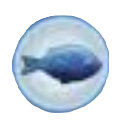
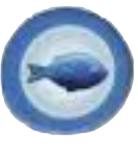
fixed selection and start screen

diff --git a/src/FramePanel.java b/src/FramePanel.java
@@ -4,6 +4,7 @@ import java.awt.event.KeyEvent;
 import java.awt.event.MouseEvent;
 import java.awt.event.MouseListener;
 import java.awt.event.MouseMotionListener;
+import java.awt.geom.RoundRectangle2D;
 import java.awt.image.BufferedImage;
 import java.io.File;
 import java.io.IOException;
@@ -13,7 +14,7 @@ import java.util.*;
 import javax.imageio.ImageIO;
 import javax.swing.*;
 public class FramePanel extends JPanel implements MouseListener, MouseMotionListener {
-    private BufferedImage cover, infoButton, bg, exitPic, leftArrow, rightArrow, birdBack;
+    private BufferedImage cover, infoButton, bg, exitPic, leftArrow, rightArrow, birdBack, wheatToken, invertebrateToken, fishToken, fruitToken, rodentToken;
     private final ProgramState state;
     private Rectangle startButtonRect = new Rectangle(700, 700, 200, 100);
     private boolean hover = false;
@@ -33,6 +34,7 @@ public class FramePanel extends JPanel implements MouseListener, MouseMotionList
 
     //Startselection variables
     boolean[] startSelections; //1-5 for birds, 6-10 for foods, 11-12 for bonus
+    private int numberOfItemsSelected = 0;
     Bird[] startOptions;
     Bonus[] bonusOptions;
 
@@ -42,6 +44,7 @@ public class FramePanel extends JPanel implements MouseListener, MouseMotionList
     public FramePanel(ProgramState state){
         this.state = state;
         addMouseListener(this);
+        addMouseMotionListener(this);
         
 
         for (int i=0;i<4;i++){
@@ -54,6 +57,11 @@ public class FramePanel extends JPanel implements MouseListener, MouseMotionList
             infoButton = ImageIO.read(FramePanel.class.getResource("/assets/info picture.png"));
             bg = ImageIO.read(FramePanel.class.getResource("/assets/table_bg.png"));
             ingameBg = ImageIO.read(FramePanel.class.getResource("/assets/ingamebg.png"));
+            wheatToken = ImageIO.read(FramePanel.class.getResource("/assets/Wheat_Token.png"));
+            invertebrateToken = ImageIO.read(FramePanel.class.getResource("/assets/Invertebrate_Token.png"));
+            fishToken = ImageIO.read(FramePanel.class.getResource("/assets/Fish_Token.png"));
+            fruitToken = ImageIO.read(FramePanel.class.getResource("/assets/Fruit_Token.png"));
+            rodentToken = ImageIO.read(FramePanel.class.getResource("/assets/Rodent_Token.png"));
             exitPic = ImageIO.read(FramePanel.class.getResource("/assets/cover_image.png")); //placeholder cuz im lazy
             leftArrow = ImageIO.read(FramePanel.class.getResource("/assets/cover_image.png")); //placeholder cuz im lazy
             rightArrow = ImageIO.read(FramePanel.class.getResource("/assets/cover_image.png")); //placeholder cuz im lazy
@@ -85,7 +93,11 @@ public class FramePanel extends JPanel implements MouseListener, MouseMotionList
     
     @Override
     public void mouseClicked(MouseEvent e) {
-        int x = e.getX();
+      
+
+    }
+    public void mousePressed(MouseEvent e) {
+          int x = e.getX();
         int y = e.getY();
         out.println("("+x+","+y+")");
         // Only respond to clicks when we are on the start screen
@@ -108,31 +120,79 @@ public class FramePanel extends JPanel implements MouseListener, MouseMotionList
             }
         }else if ("Select Screen".equals(state.CURRENTEVENT.getLast())){
             //food click
-            if (x>=1200 && x<=1300 && y>=130 && y<=220) startSelections[5] = !startSelections[5];
-            else if (x>=1200 && x<=1300 && y>=340 && y<=430) startSelections[6] = !startSelections[6];
-            else if (x>=1320 && x<=1410 && y>=230 && y<=320) startSelections[7] = !startSelections[7];
-            else if (x>=1440 && x<=1530 && y>=130 && y<=220) startSelections[8] = !startSelections[8];
-            else if (x>=1440 && x<=1530 && y>=340 && y<=430) startSelections[9] = !startSelections[9];
+             
+            if (x>=1200 && x<=1300 && y>=130 && y<=220){
+                if(numberOfItemsSelected<5&&!startSelections[5]){
+                    startSelections[5] = !startSelections[5];
+                    numberOfItemsSelected++;
+                }else if(startSelections[5]){
+                    startSelections[5] = !startSelections[5];
+                    numberOfItemsSelected--;
+            }
+        }
+            else if (x>=1200 && x<=1300 && y>=340 && y<=430){
+                if(numberOfItemsSelected<5&&!startSelections[6]){
+                    startSelections[6] = !startSelections[6];
+                    numberOfItemsSelected++;
+                }else if(startSelections[6]){
+                    startSelections[6] = !startSelections[6];
+                    numberOfItemsSelected--;
+                }
+            }
+            else if (x>=1320 && x<=1410 && y>=230 && y<=320){
+                if(numberOfItemsSelected<5&&!startSelections[7]){
+                    startSelections[7] = !startSelections[7];
+                    numberOfItemsSelected++;
+                }else if(startSelections[7]){
+                    startSelections[7] = !startSelections[7];
+                    numberOfItemsSelected--;
+                }
+            }
+            else if (x>=1440 && x<=1530 && y>=130 && y<=220){
+                if(numberOfItemsSelected<5&&!startSelections[8]){
+                    startSelections[8] = !startSelections[8];
+                    numberOfItemsSelected++;
+                }else if(startSelections[8]){
+                    startSelections[8] = !startSelections[8];
+                    numberOfItemsSelected--;
+                }
+            }
+            else if (x>=1440 && x<=1530 && y>=340 && y<=430){
+                if(numberOfItemsSelected<5&&!startSelections[9]){
+                    startSelections[9] = !startSelections[9];
+                    numberOfItemsSelected++;
+                }else if(startSelections[9]){
+                    startSelections[9] = !startSelections[9];
+                    numberOfItemsSelected--;
+                }
+            }
+            
             
             //debug click
-            else if (x>=140 && y>=700 && x<=290 && y<=780){
-                for (int i=0;i<5;i++) startSelections[i] = true;
-                startSelections[10] = true;
-            }
+                else if (x>=140 && y>=700 && x<=290 && y<=780){
+                    for (int i=0;i<5;i++) startSelections[i] = true;
+                    startSelections[10] = true;
+                }
             //birb click
             else if (y>=120 && y<=420){
                 for (int i=0;i<5;i++){
                     if (x>=30+i*220 && x<=230+i*220){
-                        startSelections[i] = !startSelections[i];
-                        out.println("Swapped");
-                        
-                    }
+                       if(numberOfItemsSelected<5&&!startSelections[i]){
+                    startSelections[i] = !startSelections[i];
+                    numberOfItemsSelected++;
+                       }else if(startSelections[i]){
+                    startSelections[i] = !startSelections[i];
+                    numberOfItemsSelected--;
+                }
+            }
+
                 } //30+i*220, 120, 200, 300
                 //continue click
             }else if (x>=140 && x<=340 && y>=600 && y<=680){
                 out.println("clicked box");
                 if (canContinue()){
                     out.println("Continuing");
+                    numberOfItemsSelected = 0;
                     for (int i=0;i<5;i++){
                         if (startSelections[i]) state.players[state.playing].addCard(startOptions[i]);
                     }
@@ -162,6 +222,7 @@ public class FramePanel extends JPanel implements MouseListener, MouseMotionList
                 }
             }
             this.repaint();
+        
         }else if (state.CURRENTEVENT.getLast().equals("Game")){
             if (x>=184 && x<=231 && y>=180 && y<=222) state.CURRENTEVENT.add("View Birds");
             else if (x>=190 && x<=235 && y>=440 && y<=484) state.CURRENTEVENT.add("View Bonus");
@@ -188,21 +249,19 @@ public class FramePanel extends JPanel implements MouseListener, MouseMotionList
             if (x>=30 && x<=120 && y>=30 && y<=120) state.CURRENTEVENT.removeLast();
             repaint();
         }
-
     }
-    public void mousePressed(MouseEvent e) {}
     public void mouseReleased(MouseEvent e) {}
     public void mouseEntered(MouseEvent e) {}
     public void mouseExited(MouseEvent e) {}
     public void mouseDragged(MouseEvent e) {}
     public void mouseMoved(MouseEvent e) {
         // highlight the button when hovered
-        /*updateStartButtonRect();
+        updateStartButtonRect();
         boolean nowHover = startButtonRect.contains(e.getPoint());
         if (nowHover != hover) {
             hover = nowHover;
             repaint();
-        }*/
+        }
     }
     public void keyTyped(KeyEvent e) {}
     public void keyPressed(KeyEvent e) {}
@@ -236,7 +295,7 @@ public class FramePanel extends JPanel implements MouseListener, MouseMotionList
     }
 
     public void paintStart(Graphics g){
-        /*Graphics2D g2 = (Graphics2D) g;
+        Graphics2D g2 = (Graphics2D) g;
         // Smooth rendering
         g2.setRenderingHint(RenderingHints.KEY_ANTIALIASING, RenderingHints.VALUE_ANTIALIAS_ON);
 
@@ -285,7 +344,7 @@ public class FramePanel extends JPanel implements MouseListener, MouseMotionList
         int bx = startButtonRect.x + (startButtonRect.width - fm.stringWidth(label)) / 2;
         int by = startButtonRect.y + (startButtonRect.height - fm.getHeight()) / 2 + fm.getAscent();
         g2.setColor(Color.WHITE);
-        g2.drawString(label, bx, by);*/
+        g2.drawString(label, bx, by);
     }
 
     public void paintSelection(Graphics g){
@@ -305,11 +364,11 @@ public class FramePanel extends JPanel implements MouseListener, MouseMotionList
         if (startSelections[7]) g.fillRect(1310, 220, 110, 110);
         if (startSelections[8]) g.fillRect(1425, 115, 110, 110);
         if (startSelections[9]) g.fillRect(1425, 325, 110, 110);
-        g.drawImage(infoButton, 1200, 120, 100, 100, null); //fish
-        g.drawImage(infoButton, 1200, 330, 100, 100, null); //seed
-        g.drawImage(infoButton, 1430, 120, 100, 100, null); //berry
-        g.drawImage(infoButton, 1430, 330, 100, 100, null); //rat
-        g.drawImage(infoButton, 1315, 225, 100, 100, null); //insect
+        g.drawImage(fishToken, 1200, 120, 100, 100, null); //fish
+        g.drawImage(wheatToken, 1200, 330, 100, 100, null); //seed
+        g.drawImage(fruitToken, 1430, 120, 100, 100, null); //fruit
+        g.drawImage(rodentToken, 1430, 330, 100, 100, null); //rat
+        g.drawImage(invertebrateToken, 1315, 225, 100, 100, null); //insect
 
         if (startSelections[10]) g.fillRect(545, 495, 210, 310);
         if (startSelections[11]) g.fillRect(795, 495, 210, 310);
